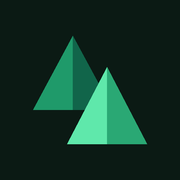
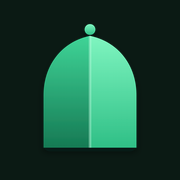
basarimlar

Changed region(s): [[0.1667, 0.1111, 0.8333, 0.8333]]

diff --git a/public/app/app.js b/public/app/app.js
@@ -74,9 +74,22 @@ let ayarAcan = null;
 function ayarlar(ac, dugme) {
   $("#ayarlar").hidden = !ac;
   document.querySelectorAll("[data-ayar]").forEach((d) => d.setAttribute("aria-expanded", String(ac)));
-  if (ac) { ayarAcan = dugme; document.querySelector(`input[name="yazi"]:checked`)?.focus(); } else ayarAcan?.focus();
+  if (ac) { ayarAcan = dugme; temaGostergeleriGuncelle(); document.querySelector(`input[name="yazi"]:checked`)?.focus(); } else ayarAcan?.focus();
 }
 document.querySelectorAll("[data-ayar]").forEach((d) => d.addEventListener("click", () => ayarlar(true, d)));
+
+// Koyu tema: üst bardaki ay/güneş düğmesi, Erişilebilirlik sayfasındaki anahtar ve profildeki anahtar
+// hepsi aynı duruma (document.documentElement.dataset.tema) bakar; biri değişince hepsi anında güncellenir.
+function temaGostergeleriGuncelle() {
+  const koyu = document.documentElement.dataset.tema === "koyu";
+  const kutu = $("#erisim-koyu-tema");
+  if (kutu) kutu.checked = koyu;
+  const satir = document.querySelector('#profil-icerik .pl-satir[role="switch"]');
+  if (satir) { satir.setAttribute("aria-checked", String(koyu)); satir.querySelector(".pl-anahtar")?.classList.toggle("acik", koyu); }
+}
+$("#erisim-koyu-tema")?.addEventListener("change", () => $("#tema-dugme").click());
+new MutationObserver(temaGostergeleriGuncelle).observe(document.documentElement, { attributes: true, attributeFilter: ["data-tema"] });
+temaGostergeleriGuncelle();
 $("#ayar-kapat").addEventListener("click", () => ayarlar(false));
 $("#ayarlar").addEventListener("click", (e) => { if (e.target === e.currentTarget) ayarlar(false); });
 document.addEventListener("keydown", (e) => { if (e.key === "Escape" && !$("#ayarlar").hidden) ayarlar(false); });
@@ -1176,15 +1189,17 @@ function profilEkrani() {
         istatistik(String(gruplar.length), "modül"))),
     hesapBolumu(),
     el("h2", { className: "bolum-baslik", textContent: "Başarımlar" }),
-    gruplar.length ? el("div", { className: "profil-basarimlar" }, ...gruplar.map(({ modul, basarimlar }) =>
-      el("section", { className: "profil-modul" },
-        el("h3", { textContent: modul.ad }),
-        el("div", { className: "s-izgara", style: "--sutun:3" }, ...basarimlar.map((b) => {
-          const r = el("div", { className: `s-rozet${b.kazanildi ? " kazanildi" : ""}` });
-          r.innerHTML = '<svg viewBox="0 0 120 120" aria-hidden="true"><g><rect x="26" y="26" width="68" height="68" rx="6"/><rect x="26" y="26" width="68" height="68" rx="6" transform="rotate(45 60 60)"/></g><circle cx="60" cy="60" r="26"/><path d="M60 43l5 10.4 11.4 1.7-8.2 8 2 11.3L60 69l-10.2 5.4 2-11.3-8.2-8 11.4-1.7z"/></svg>';
-          r.append(el("strong", { textContent: b.ad }), el("span", { textContent: b.kazanildi ? (b.aciklama || "Kazanıldı") : "Henüz kazanılmadı" }));
-          return r;
-        }))))) : el("p", { className: "bos", textContent: "Modülleri oynadıkça başarımların burada birikecek." }),
+    gruplar.length ? el("div", { className: "pl-grup" }, ...gruplar.map(({ modul, basarimlar }) => {
+      const kazanilan = basarimlar.filter((b) => b.kazanildi).length;
+      const satir = el("button", { type: "button", className: "bl-satir" },
+        uygulamaIkonu(modul, "kucuk"),
+        el("span", { className: "pl-ad" },
+          el("strong", { textContent: modul.ad }),
+          el("small", { textContent: `${kazanilan}/${basarimlar.length} başarım` })),
+        el("span", { className: "pl-ok", ariaHidden: "true" }));
+      satir.addEventListener("click", () => basarimlariGoster(modul, basarimlar));
+      return satir;
+    })) : el("p", { className: "bos", textContent: "Modülleri oynadıkça başarımların burada birikecek." }),
     el("section", { className: "profil-ayarlar" },
       el("h2", { className: "bolum-baslik", id: "profil-ayar-baslik", textContent: "Ayarlar" }),
       el("div", { className: "pl-grup" },
@@ -1196,6 +1211,19 @@ function profilEkrani() {
     izinBolumu(),
     el("p", { className: "kaynak-notu profil-kunye", textContent: "Lonca · Veriler: Vakıf Katılım, Bursa Vakıf Eserleri Envanteri. Fotoğraflar envanter kitaplarındandır." }),
   );
+}
+function basarimlariGoster(modul, basarimlar) {
+  katman.koy(
+    el("h2", { className: "bolum-baslik", textContent: modul.ad }),
+    el("div", { className: "s-izgara", style: "--sutun:3" }, ...basarimlar.map((b) => {
+      const r = el("div", { className: `s-rozet${b.kazanildi ? " kazanildi" : ""}` });
+      r.innerHTML = '<svg viewBox="0 0 120 120" aria-hidden="true"><g><rect x="26" y="26" width="68" height="68" rx="6"/><rect x="26" y="26" width="68" height="68" rx="6" transform="rotate(45 60 60)"/></g><circle cx="60" cy="60" r="26"/><path d="M60 43l5 10.4 11.4 1.7-8.2 8 2 11.3L60 69l-10.2 5.4 2-11.3-8.2-8 11.4-1.7z"/></svg>';
+      r.append(
+        el("strong", { textContent: b.ad }),
+        el("span", { textContent: b.aciklama || "Bu başarımın açıklaması yok." }),
+        el("small", { className: "s-rozet-durum", textContent: b.kazanildi ? "Kazanıldı" : "Henüz kazanılmadı" }));
+      return r;
+    })));
 }
 function izinBolumu() {
   const satirlar = modulListesi.flatMap((m) => raf.istenenIzinler(m).map((iz) => {

diff --git a/public/app/sahne.css b/public/app/sahne.css
@@ -227,6 +227,14 @@ body.uygulama-modu #sahne { view-transition-name: none; }
 .s-rozet.kazanildi rect { fill: var(--altin); } .s-rozet.kazanildi circle { fill: var(--kobalt-koyu); } .s-rozet.kazanildi path { fill: var(--altin-acik); }
 .s-rozet strong { font-size: .9rem; line-height: 1.2; } .s-rozet span { color: var(--soluk); font-size: .76rem; line-height: 1.3; }
 .s-rozet:not(.kazanildi) strong { color: var(--soluk); }
+.s-rozet-durum { font-size: .68rem; font-weight: 600; letter-spacing: .02em; color: var(--soluk); }
+.s-rozet.kazanildi .s-rozet-durum { color: var(--altin); }
+.s-rozet.kazanildi { animation: s-rozet-gel .45s var(--egri) both; }
+.s-rozet.kazanildi path { transform-origin: 60px 60px; animation: s-rozet-isilti 2.6s ease-in-out .45s infinite; }
+@keyframes s-rozet-gel { from { opacity: 0; transform: scale(.82); } to { opacity: 1; transform: scale(1); } }
+@keyframes s-rozet-isilti { 0%, 100% { opacity: 1; transform: scale(1); } 50% { opacity: .6; transform: scale(1.12); } }
+@media (prefers-reduced-motion: reduce) { .s-rozet.kazanildi, .s-rozet.kazanildi path { animation: none; } }
+:root.hareket-az .s-rozet.kazanildi, :root.hareket-az .s-rozet.kazanildi path { animation: none; }
 
 .katman { position: fixed; inset: 0; z-index: 30; display: grid; align-items: end; background: rgba(10, 18, 40, .45); animation: soluk-gir .25s ease both; }
 .katman-kutu { max-height: 92vh; overflow: hidden; display: flex; flex-direction: column; border-radius: 26px 26px 0 0; background: var(--zemin); max-width: 720px; width: 100%; margin: 0 auto; animation: katman-cik .38s cubic-bezier(.2, .9, .3, 1) both; }
@@ -284,8 +292,13 @@ body.uygulama-modu #sahne { view-transition-name: none; }
 .profil-alt { margin: 0; color: var(--soluk); font-size: .9rem; }
 .profil-kart .dugme { width: auto; padding-inline: 1.4rem; }
 .profil-istatistik { display: grid; grid-template-columns: repeat(3, 1fr); gap: .6rem; }
-.profil-basarimlar { display: flex; flex-direction: column; gap: 1.2rem; }
-.profil-modul h3 { font-family: var(--yazi-baslik); font-weight: 400; font-size: 1.1rem; margin: 0 0 .6rem .2rem; }
+
+.bl-satir {
+  position: relative; display: flex; align-items: center; gap: .85rem; width: 100%; min-height: 48px; padding: .55rem 1rem;
+  border: 0; background: none; color: var(--metin); font: inherit; font-size: 1rem; text-align: left; cursor: pointer;
+}
+.bl-satir:active { background: var(--dolgu); }
+.bl-satir + .bl-satir::before { content: ""; position: absolute; top: 0; left: calc(1rem + 44px + .85rem); right: 0; border-top: .5px solid var(--cizgi); }
 
 .tanisma-alt { margin: 0 0 .8rem; color: var(--soluk); }
 .tanisma-girdi { width: 100%; min-height: 54px; padding: 0 1rem; border-radius: 14px; border: 2px solid var(--cizgi); background: var(--yuzey); color: var(--metin); font: inherit; font-size: 1.1rem; }

diff --git a/public/app/index.html b/public/app/index.html
@@ -276,14 +276,6 @@
         <svg viewBox="0 0 24 24" aria-hidden="true"><path d="M6 6l12 12M18 6L6 18" fill="none" stroke="currentColor" stroke-width="2.4" stroke-linecap="round"/></svg>
       </button>
     </div>
-    <div id="katman" class="katman" hidden>
-      <div class="katman-kutu" role="dialog" aria-modal="true" aria-label="Pencere">
-        <button id="katman-kapat" class="katman-kapat" aria-label="Pencereyi kapat">
-          <svg viewBox="0 0 24 24" aria-hidden="true"><path d="M6 6l12 12M18 6L6 18" fill="none" stroke="currentColor" stroke-width="2.4" stroke-linecap="round"/></svg>
-        </button>
-        <div id="katman-icerik" class="katman-icerik" aria-live="polite"></div>
-      </div>
-    </div>
     <div id="acilis" class="acilis" hidden aria-hidden="true">
       <div class="acilis-desen" id="acilis-desen"></div>
       <div class="acilis-orta">
@@ -291,6 +283,17 @@
         <p class="acilis-ad" id="acilis-ad"></p>
         <span class="acilis-yukleniyor"><i></i><i></i><i></i></span>
       </div>
+    </div>
+  </div>
+
+  <!-- Alttan açılan genel katman (ör. modül içindeki pencereler, profildeki başarım listesi); modülün açık
+       olup olmamasından bağımsız çalışsın diye #modul-ekrani'nin dışında, üst düzey bir öğedir. -->
+  <div id="katman" class="katman" hidden>
+    <div class="katman-kutu" role="dialog" aria-modal="true" aria-label="Pencere">
+      <button id="katman-kapat" class="katman-kapat" aria-label="Pencereyi kapat">
+        <svg viewBox="0 0 24 24" aria-hidden="true"><path d="M6 6l12 12M18 6L6 18" fill="none" stroke="currentColor" stroke-width="2.4" stroke-linecap="round"/></svg>
+      </button>
+      <div id="katman-icerik" class="katman-icerik" aria-live="polite"></div>
     </div>
   </div>
 
@@ -411,6 +414,11 @@
         <button class="erisim-sifirla" id="erisim-sifirla" type="button">Varsayılana dön</button>
       </div>
       <p class="erisim-ornek" id="erisim-ornek" aria-hidden="true">Ulucami, Bursa'nın en büyük camisidir. <span>Örnek metin</span></p>
+
+      <fieldset class="erisim-grup">
+        <legend>Görünüm</legend>
+        <label class="anahtar"><input type="checkbox" id="erisim-koyu-tema"><span>Koyu tema <small>Göz yormayan karanlık görünüm</small></span></label>
+      </fieldset>
 
       <fieldset class="erisim-grup">
         <legend>Okuma</legend>

diff --git a/public/ortak/klavye.js b/public/ortak/klavye.js
@@ -7,8 +7,12 @@
 // Chrome/Android tarafında viewport meta'sındaki interactive-widget=resizes-content düzeni zaten küçültür;
 // bu modül iOS Safari gibi küçültmeyen tarayıcılarda aynı sonucu verir ve iki durumda da alanı görünür tutar.
 (() => {
-  const vv = window.visualViewport;
   const kok = document.documentElement;
+  // Uygulamanın Android kabuğunda (gerçek Capacitor ya da ?kabuk ile simüle edilmiş) klavyeyi zaten
+  // kabuk.js + kopru.js yönetir (gerçek klavye olaylarına göre); bu modül onunla aynı anda çalışırsa
+  // odaklanan alan iki farklı hesaba göre art arda kaydırılıp pop-up'lar yukarı zıplar.
+  if (kok.classList.contains("kabuk")) return;
+  const vv = window.visualViewport;
   const hareketAz = () => kok.classList.contains("hareket-az") || matchMedia("(prefers-reduced-motion: reduce)").matches;
   const YAZILIR = 'input:not([type=checkbox]):not([type=radio]):not([type=range]):not([type=button]):not([type=submit]):not([type=reset]):not([type=file]):not([type=color]), textarea, select, [contenteditable=""], [contenteditable="true"]';
 

diff --git a/public/ortak/logo.js b/public/ortak/logo.js
@@ -7,9 +7,11 @@ export function loncaLogo({ boyut = 32, baslik = "Lonca" } = {}) {
     <filter id="${id}g" x="-20%" y="-20%" width="140%" height="140%"><feDropShadow dx="0" dy="1.2" stdDeviation="1.1" flood-color="#04140d" flood-opacity=".55"/></filter>
   </defs>
   <g filter="url(#${id}g)">
-    <g opacity=".78"><path d="M18 5 L4 31 L18 31 Z" fill="url(#${id}b)"/><path d="M18 5 L32 31 L18 31 Z" fill="#11654a"/></g>
-    <g><path d="M30 16 L16 43 L30 43 Z" fill="url(#${id}a)"/><path d="M30 16 L44 43 L30 43 Z" fill="url(#${id}b)"/>
-      <path d="M30 16 L16 43 M30 16 L44 43" stroke="#c9ffe6" stroke-opacity=".45" stroke-width=".7" fill="none"/></g>
+    <path d="M24 6C15.5 7.7 9.5 14.9 9.5 24.5V41H24Z" fill="url(#${id}b)"/>
+    <path d="M24 6C32.5 7.7 38.5 14.9 38.5 24.5V41H24Z" fill="url(#${id}a)"/>
+    <path d="M24 6V41" stroke="#c9ffe6" stroke-opacity=".4" stroke-width=".8" fill="none"/>
+    <path d="M24 6V4.4" stroke="url(#${id}a)" stroke-width="1.1" fill="none"/>
+    <circle cx="24" cy="4" r="1.7" fill="url(#${id}a)"/>
   </g>
 </svg>`;
 }

diff --git a/public/ortak/ceviri-en.js b/public/ortak/ceviri-en.js
@@ -121,6 +121,7 @@ export const EN = {
   "E-postan doğrulanmadı: gelen kutundaki bağlantıyı aç. Doğrulanınca aynı e-postayla \"Google ile devam et\" bu hesaba girer.": "Your email is not verified: open the link in your inbox. Once verified, \"Continue with Google\" with the same email signs into this account.",
   "E-posta kaydedildi; doğrulama bağlantısını gönderdik.": "Email saved; we sent a verification link.",
   "Koyu tema": "Dark theme",
+  "Göz yormayan karanlık görünüm": "An easier-on-the-eyes dark look",
   "Açık tema": "Light theme",
   "Koyu temaya geç": "Switch to dark theme",
   "Açık temaya geç": "Switch to light theme",

diff --git a/public/app/zarif.css b/public/app/zarif.css
@@ -382,7 +382,6 @@ dialog.galeri { overflow: hidden; }
 .pk-sayi + .pk-sayi { border-left: .5px solid var(--cizgi); }
 .pk-sayi strong { font-size: 1.35rem; font-weight: 700; font-variant-numeric: tabular-nums; }
 .pk-sayi span { color: var(--soluk); font-size: .78rem; }
-.profil-modul h3 { font-family: inherit; font-weight: 600; font-size: 1rem; }
 
 /* Hesap kartı */
 .hesap-kart { display: grid; gap: .7rem; padding: 1.25rem; border-radius: var(--yaricap-buyuk); background: var(--yuzey); box-shadow: var(--golge-kart); text-align: left; }

diff --git a/README.md b/README.md
@@ -162,6 +162,15 @@ works for local testing, `yok` builds an offline-only app). There is no network
 scanning. The app sends the API key in `x-lonca-anahtar`, falls back to the bundled
 offline snapshot when the server cannot be reached and retries once a minute.
 
+Build and run on a USB-connected phone (enable USB debugging under Developer
+options first, then accept the "Trust this computer?" prompt):
+
+```bash
+./apk.sh                                      # debug build → dist/lonca.apk
+adb install -r dist/lonca.apk                 # or: ./apk.sh --kur
+adb shell monkey -p com.kozmos.lonca -c android.intent.category.LAUNCHER 1  # launch it
+```
+
 ## Commands
 
 | Command | What it does |
